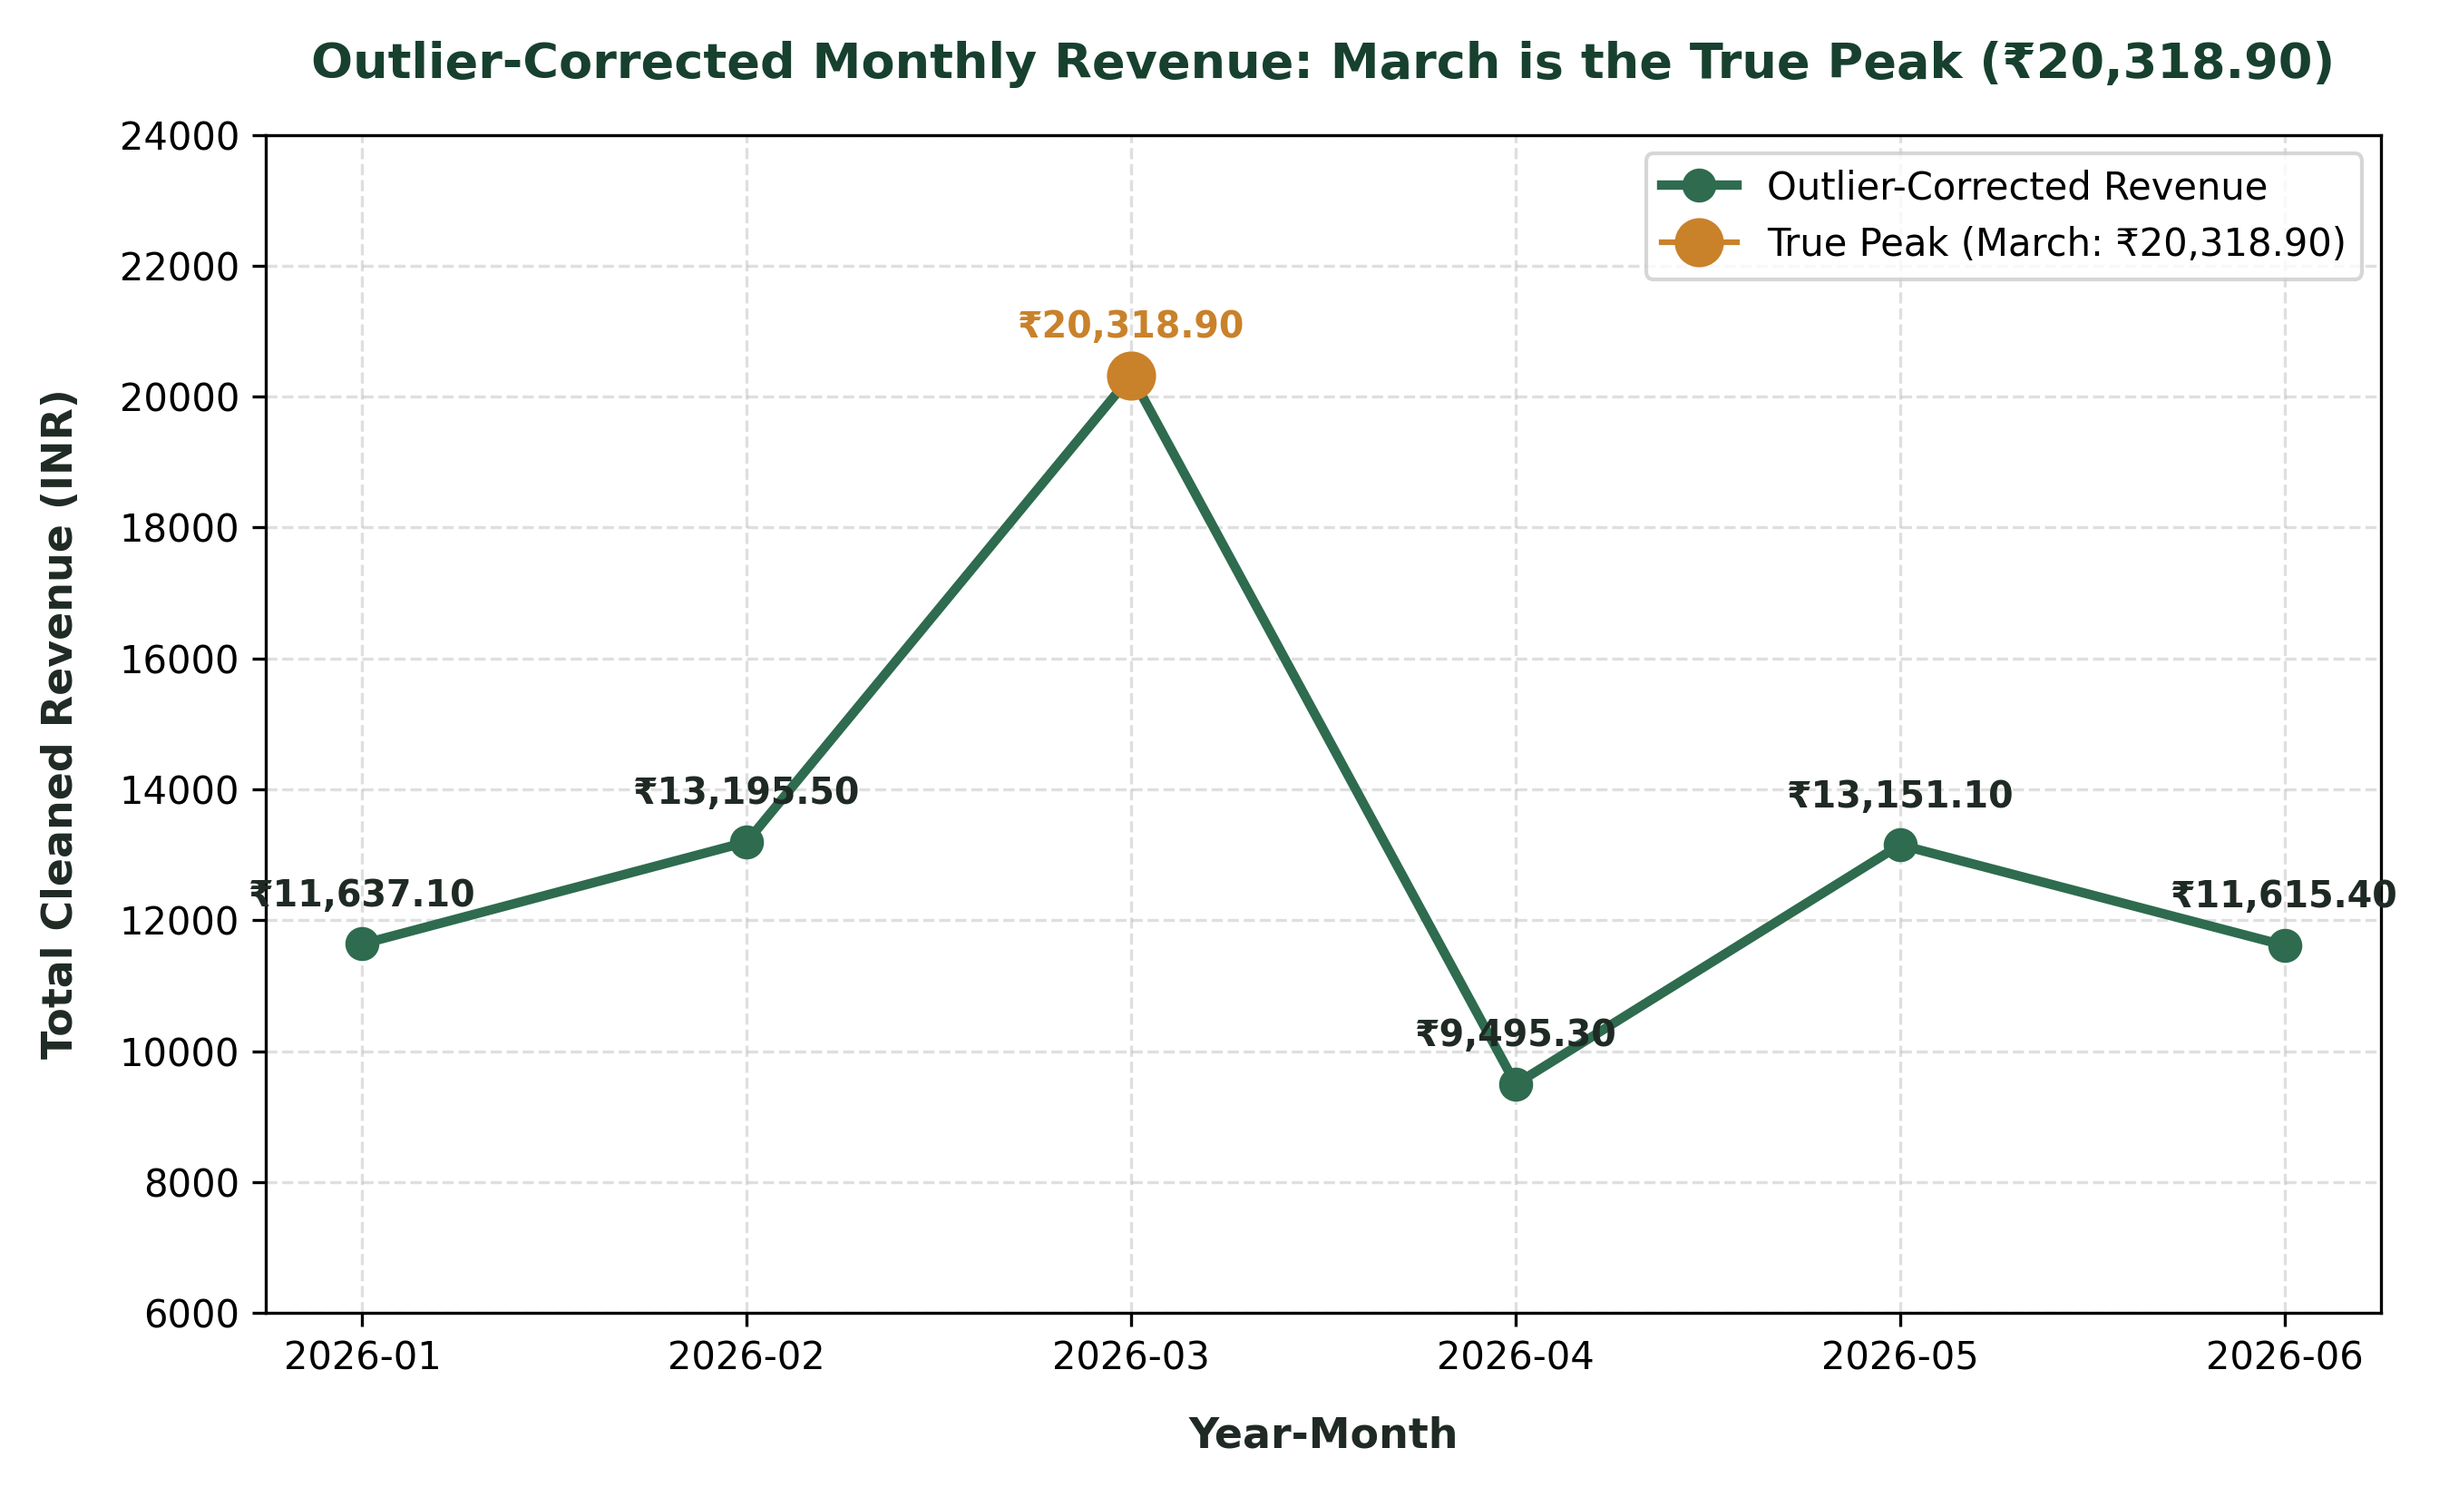
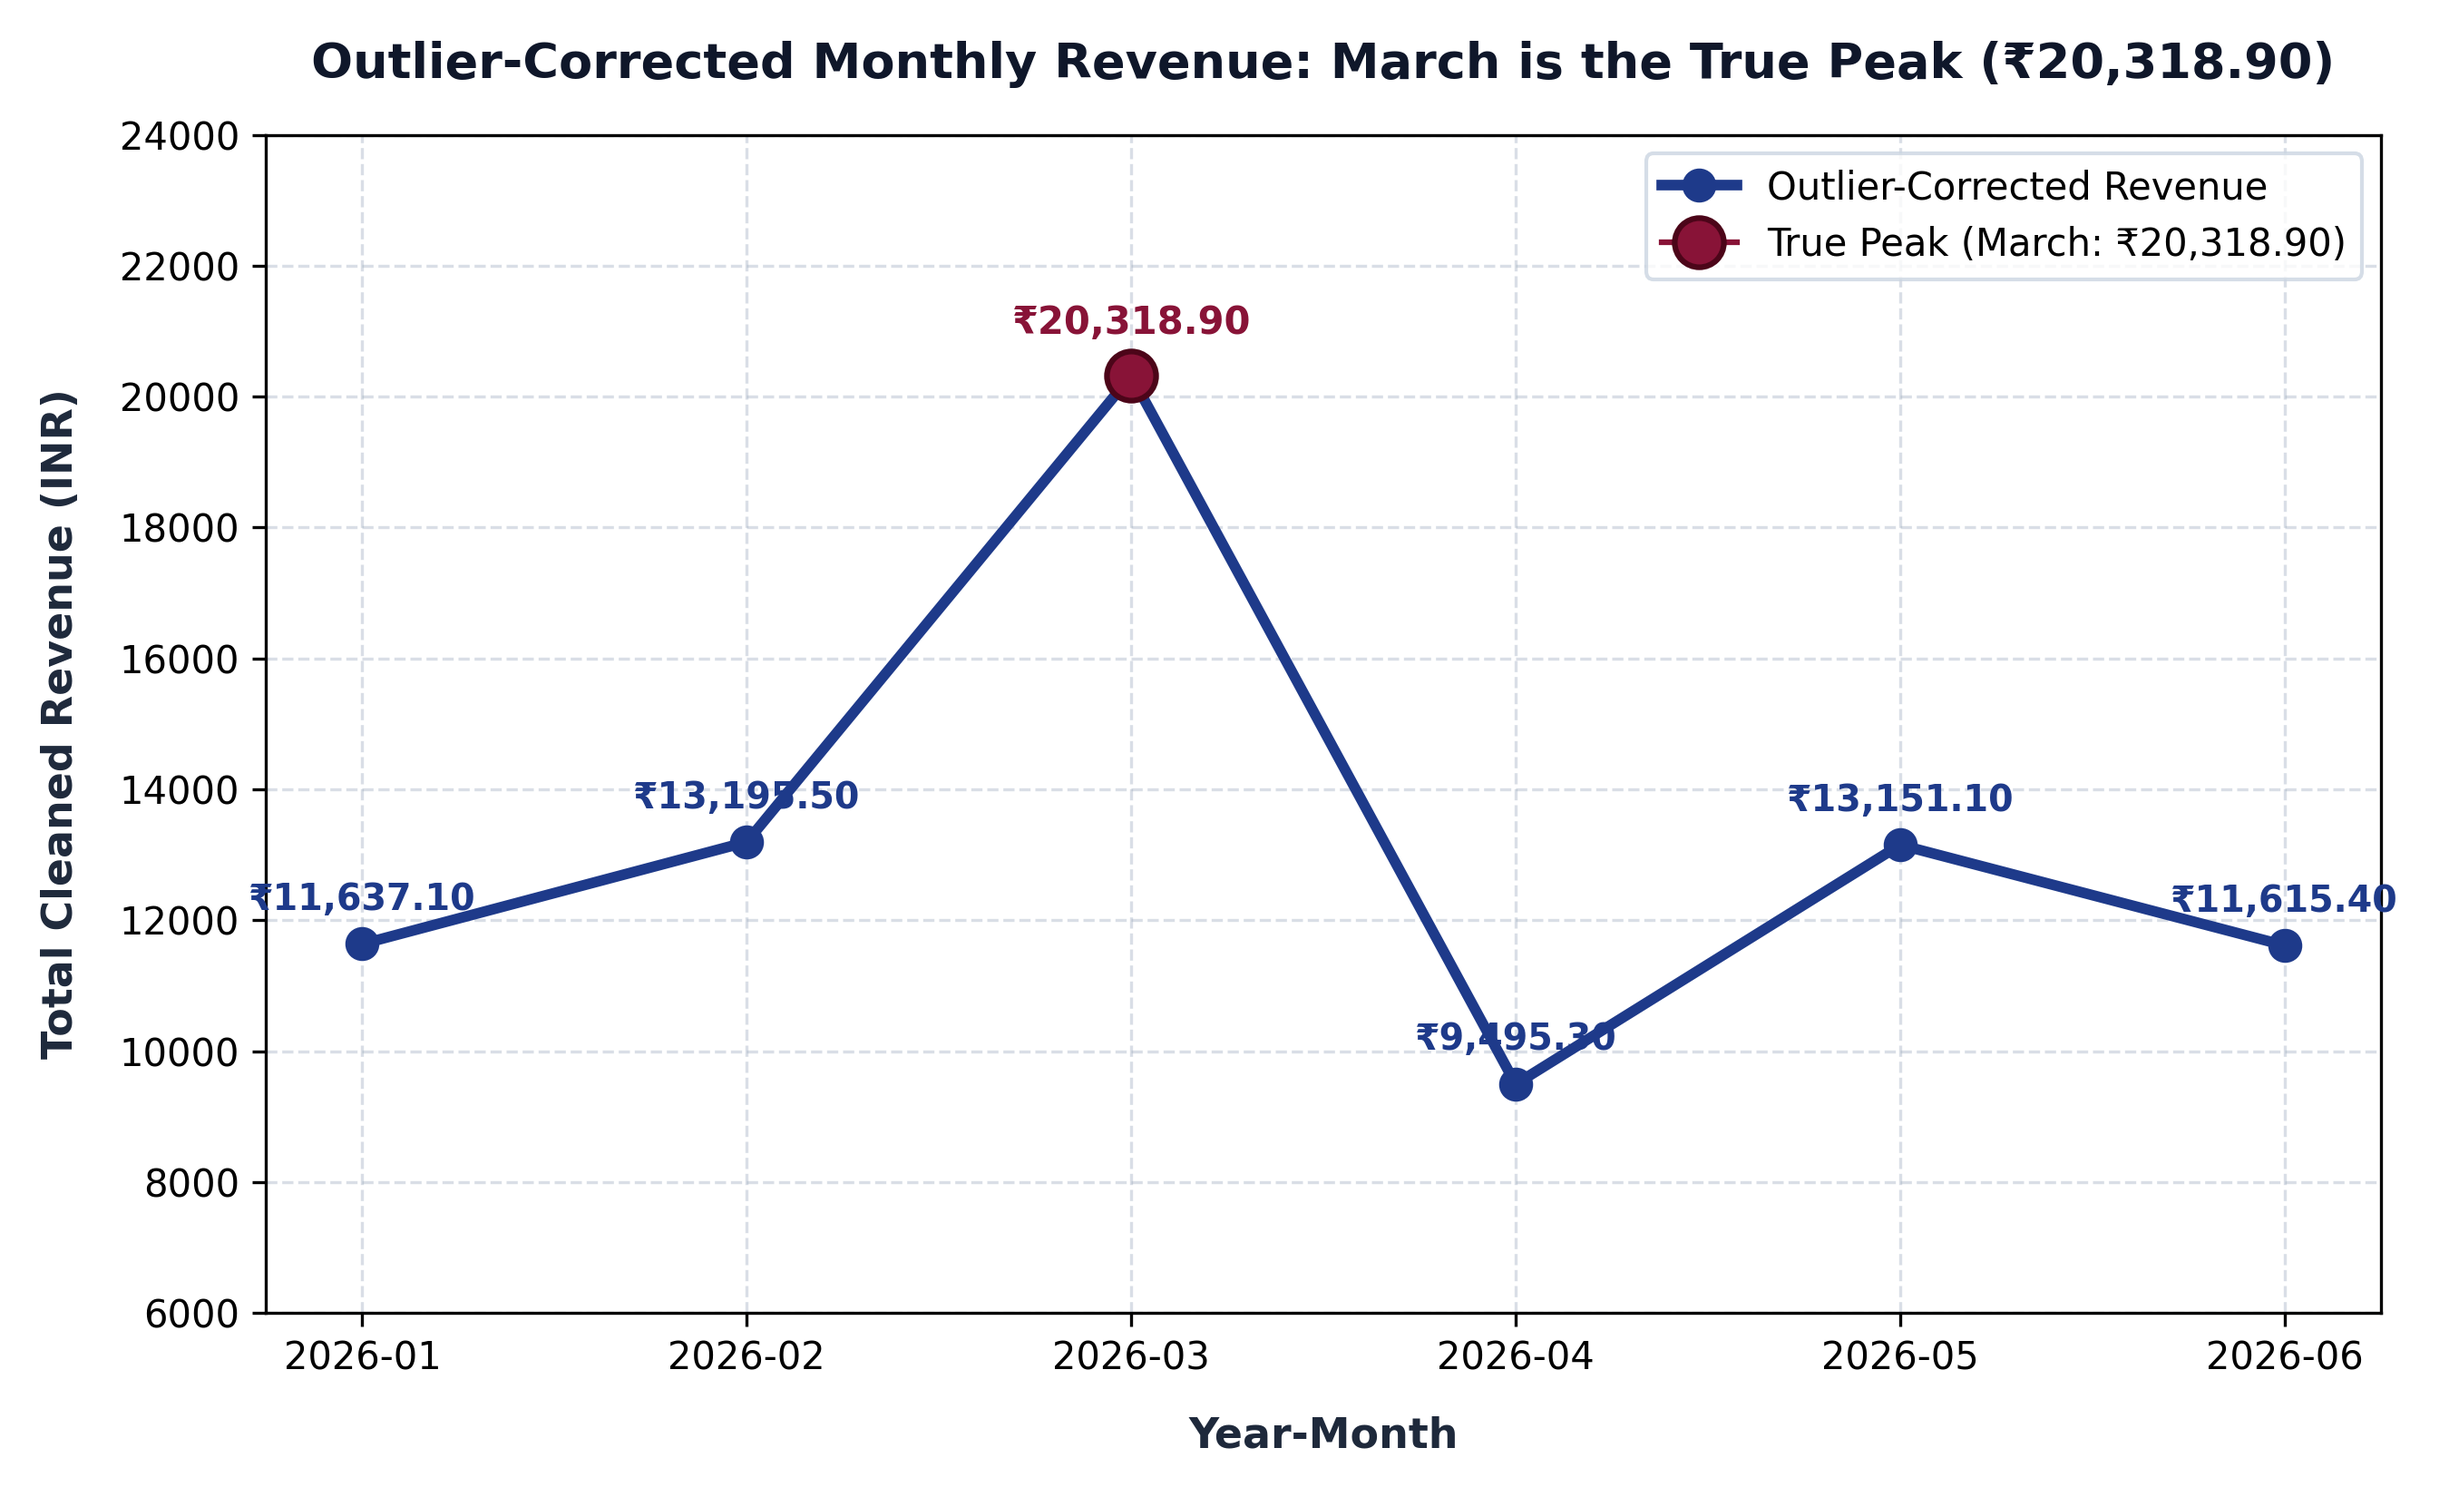
style: update monthly revenue trend chart to dark blue and maroon palette

diff --git a/analysis/visualize.py b/analysis/visualize.py
@@ -114,7 +114,7 @@ def generate_visualizations():
     print(f"Saved Chart 1 (Royal Indigo & Coral): {chart1_path}")
 
     # -------------------------------------------------------------------------
-    # Chart 2: Monthly Revenue Trend (Outlier-Corrected Line Chart)
+    # Chart 2: Monthly Revenue Trend (Outlier-Corrected Line Chart - Dark Blue & Maroon)
     # -------------------------------------------------------------------------
     df["order_date"] = pd.to_datetime(df["order_date"])
     df["year_month"] = df["order_date"].dt.to_period("M").astype(str)
@@ -127,53 +127,58 @@ def generate_visualizations():
     revenues = monthly_clean["order_value"].tolist()
 
     plt.figure(figsize=(9, 5.5), dpi=300)
+    
+    # Trend line in Deep Dark Blue
     plt.plot(
         months,
         revenues,
         marker="o",
         markersize=8,
-        linewidth=2.5,
-        color="#2E6B4F",
+        linewidth=2.8,
+        color="#1E3A8A",  # Deep Dark Blue
         label="Outlier-Corrected Revenue",
     )
 
-    # Highlight peak month (March 2026)
+    # Highlight peak month (March 2026) in Rich Maroon
     peak_idx = months.index("2026-03")
     plt.plot(
         months[peak_idx],
         revenues[peak_idx],
         marker="o",
-        markersize=12,
-        color="#C9822A",
+        markersize=13,
+        color="#881337",  # Rich Maroon
+        markeredgecolor="#4C0519",
+        markeredgewidth=1.5,
         label="True Peak (March: ₹20,318.90)",
+        zorder=5,
     )
 
-    plt.title("Outlier-Corrected Monthly Revenue: March is the True Peak (₹20,318.90)", fontsize=13, fontweight="bold", pad=15, color="#17402F")
-    plt.xlabel("Year-Month", fontsize=11, fontweight="bold", labelpad=10, color="#1F2A24")
-    plt.ylabel("Total Cleaned Revenue (INR)", fontsize=11, fontweight="bold", labelpad=10, color="#1F2A24")
+    plt.title("Outlier-Corrected Monthly Revenue: March is the True Peak (₹20,318.90)", fontsize=13, fontweight="bold", pad=15, color="#0F172A")
+    plt.xlabel("Year-Month", fontsize=11, fontweight="bold", labelpad=10, color="#1E293B")
+    plt.ylabel("Total Cleaned Revenue (INR)", fontsize=11, fontweight="bold", labelpad=10, color="#1E293B")
     plt.ylim(6000, 24000)
-    plt.grid(True, linestyle="--", alpha=0.4)
+    plt.grid(True, linestyle="--", alpha=0.35, color="#94A3B8")
 
-    # Annotate points
+    # Annotate points with clean labels
     for i, (m, r) in enumerate(zip(months, revenues)):
-        offset_y = 700 if i != peak_idx else 900
+        is_peak = (i == peak_idx)
         plt.annotate(
             f"₹{r:,.2f}",
             (m, r),
             textcoords="offset points",
-            xytext=(0, 10),
+            xytext=(0, 11 if is_peak else 9),
             ha="center",
-            fontsize=9.5,
+            fontsize=10 if is_peak else 9.5,
             fontweight="bold",
-            color="#C9822A" if i == peak_idx else "#1F2A24",
+            color="#881337" if is_peak else "#1E3A8A",
         )
 
-    plt.legend(loc="upper right", frameon=True)
+    plt.legend(loc="upper right", frameon=True, facecolor="#FFFFFF", edgecolor="#CBD5E1")
     plt.tight_layout()
     chart2_path = os.path.join("visualizations", "monthly_revenue_trend.png")
     plt.savefig(chart2_path, dpi=300)
     plt.close()
-    print(f"Saved Chart 2: {chart2_path}")
+    print(f"Saved Chart 2 (Dark Blue & Maroon): {chart2_path}")
 
 
 if __name__ == "__main__":
